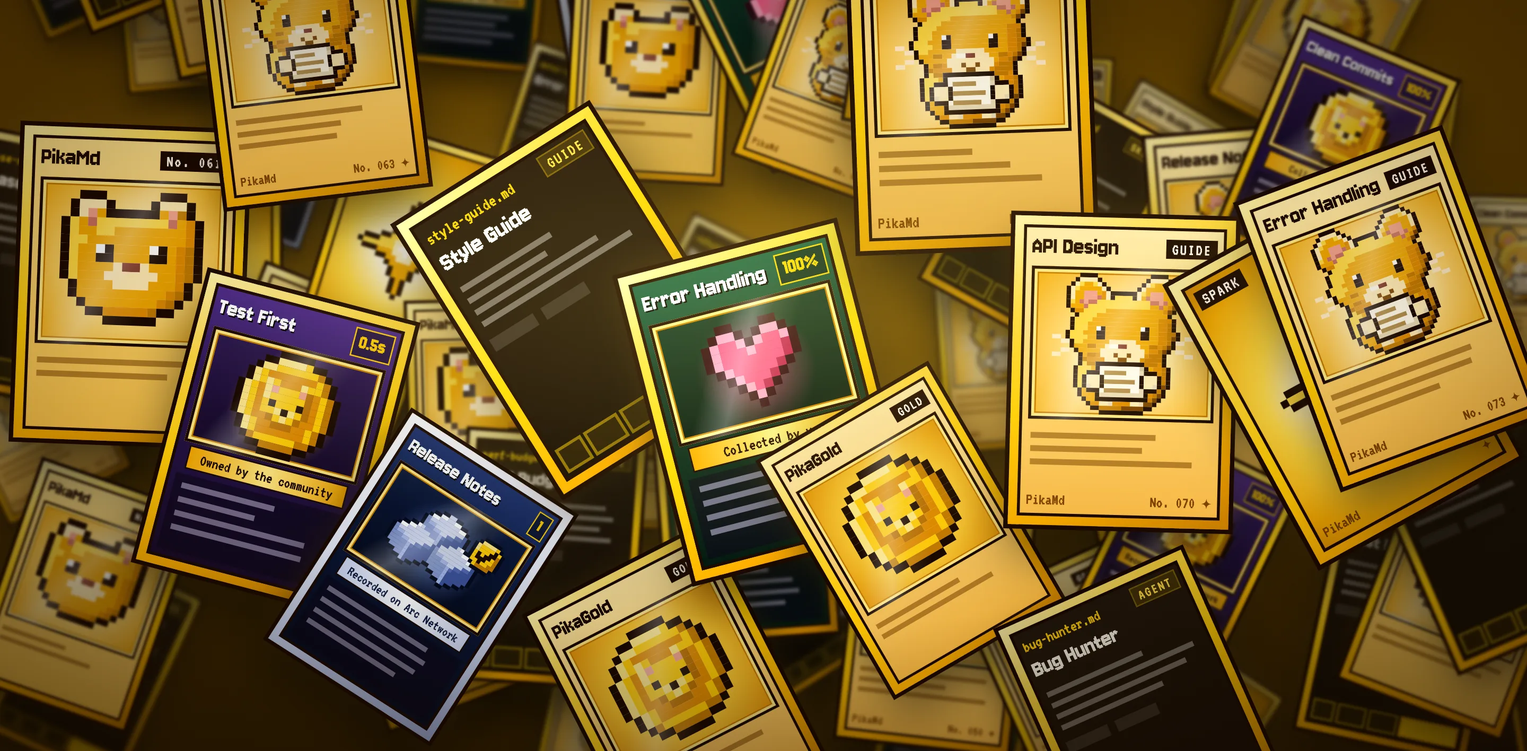
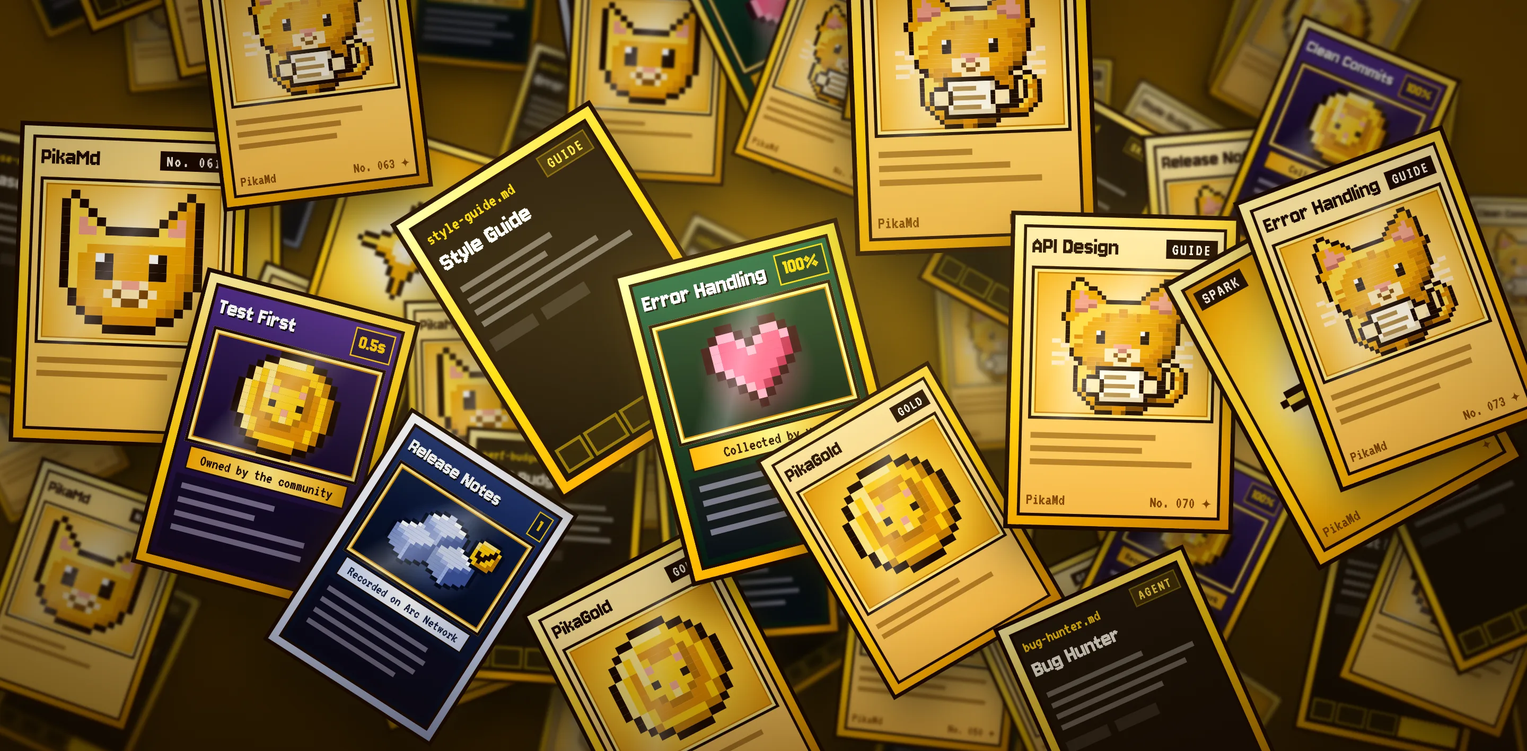
Swap the mascot to a cat and label reviewed guidelines Verified
The pika read as a mouse, so the mascot is now an original tabby cat with
the same palette, size and pose: navbar sprite, favicons, the PikaGold coin
face and the background cards (rebuilt from the same seed, same layout).
The favicon head is drawn plainer so its face reads in a browser tab.

The reviewed badge now says VERIFIED, and its note is our own pixel bubble
that opens after 0.25 s instead of the browser's title tooltip.

diff --git a/web/components/brand/pika-art.ts b/web/components/brand/pika-art.ts
@@ -1,9 +1,10 @@
-// PikaMd mascot: a pika (Ochotona), the small mountain mammal that gathers and stores hay for
-// the winter: a collector, like a guideline collection. Original pixel art drawn for PikaMd
-// (2026-10-15; how it was made: design/brand/mascot.mjs). Round, pale-rimmed ears, long whiskers,
-// no tail, holding a .md page. One letter per pixel, "." is transparent; colors in PIKA_PALETTE.
-// Used by components/brand/PikaSprite.tsx (navbar) and design/brand/build-icons.mjs (favicons,
-// social images), so every picture of the mascot comes from these maps.
+// PikaMd mascot: a tabby cat holding a .md page, the collector of the guideline library. Original
+// pixel art drawn for PikaMd (2026-10-25, replacing the pika; how it was made:
+// design/brand/mascot.mjs). Pointed ears with pink insides, tabby stripes, pink nose, long
+// whiskers, a striped tail curled up its right side. One letter per pixel, "." is transparent;
+// colors in PIKA_PALETTE. Used by components/brand/PikaSprite.tsx (navbar) and
+// design/brand/build-icons.mjs (favicons, social images), so every picture of the mascot comes
+// from these maps.
 
 export const PIKA_PALETTE: Record<string, string> = {
   O: "#1A0800", // outline (--ink)
@@ -11,14 +12,12 @@ export const PIKA_PALETTE: Record<string, string> = {
   E: "#FFFFFF", // eye shine
   D: "#7A4200", // deepest fur shade (--g4), mouth
   S: "#C47A00", // fur shade (--g3)
-  M: "#E08A00", // fur mid (--g2)
+  M: "#E08A00", // fur mid (--g2), tabby stripes
   B: "#F0A500", // fur (--g1)
   L: "#FFD740", // fur light (--y2)
-  C: "#FFE8B0", // cream: ear rims, muzzle, paws, feet
-  W: "#FFF8E7", // muzzle shine (--t0)
-  P: "#F2A08A", // inner ear
-  p: "#C9705E", // inner ear shade
-  N: "#7A2E22", // nose
+  C: "#FFE8B0", // cream: muzzle, paws
+  P: "#F2A08A", // inner ear, nose
+  p: "#C9705E", // inner ear and nose shade
   w: "#FFE9C2", // whiskers (light, so they read on dark backgrounds)
   X: "#FFF8E7", // page
   x: "#E9D9B4", // page shade
@@ -28,72 +27,72 @@ export const PIKA_PALETTE: Record<string, string> = {
 
 /** 32×32, the full mascot holding a page. */
 export const PIKA: readonly string[] = [
-  "......OOOO............OOOO......",
-  ".....OCCCCO..........OCCCCO.....",
-  "....OCLBBLCO........OCLBBLCO....",
-  "...OCLBBBBBCO......OCBBBBBBCO...",
-  "...OCBBPPPBMCOOOOOOCLBPPPBBCO...",
-  "...OCBBPPPpMCOLLLLOCBpPPPBBCO...",
-  "...OLBpPppLLLLLLLLLLLLppPpBMO...",
-  "...OBBBpLLLLLLLLLLLLLLBBpBMDO...",
-  "....OMMLLLLLBBBBBBBBBBBBBMDO....",
-  ".....OLLLLBBBBBBBBBBBBBBBBO.....",
-  "....OLLLLBBBBBBBBBBBBBBBMMMO....",
-  "....OLLLBBBBBBBBBBBBBBBBMMSO....",
-  "....OLLLBBEKBBBBBBBBEKBBMMSO....",
-  "...OLLLBBBKKBBBBBBBBKKBBMMSSO...",
-  "ww.OLLLLBBKKBBBBBBBBKKBBMMSDO.ww",
-  "..wwOLLBBBBBBCCCCCCBBBBBMMSOww..",
-  "....OBBBSSBBCWWNNCCCBBSSMSDO....",
-  "..ww.OBBBBBCCCCCCCCCCBMMSDO.ww..",
-  "ww....OBSSMCCCDCCDCCCMSSSO....ww",
-  "......OSMMMMCCCDDCCCMSSSSO......",
-  "......OLSSOOOOOOOOOOOSSSMO......",
-  ".....OLLLBOXXXXXXXXXfOBMMSO.....",
-  ".....OLLOOOXlllllXXXxOOOMSO.....",
-  ".....OLOCCCOXXXXXXXXOCCCOSO.....",
-  ".....OLOCCCOlllllllXOCCCOSO.....",
-  ".....OLOxCCOXXXXXXXXOCCxODO.....",
-  "......OBOOOXllllllXXxOOOSO......",
-  "......OBBBOxxxxxxxxxxOMSDO......",
-  ".......OBBOOOOOOOOOOOOSDO.......",
-  "........OMMCCxMMMMCCxDDO........",
-  ".........OOSSSSSDDDDDOO.........",
-  "...........OOOOOOOOOO...........",
+  "................................",
+  ".....OO..................OO.....",
+  "....OLLO................OBBO....",
+  "....OLLLOO............OOBBBO....",
+  "...OBBPBBBO..........OMMMPMMO...",
+  "...OBBPPBBBO........OMMMPPMMO...",
+  "...OBPPPPPBBOOOOOOOOMMPPPPPMO...",
+  "...OBPPPppLLLLLLLLLLLLppPPPMO...",
+  "...OBpppLLLLLLLMMLLLLLBBpppMO...",
+  "..OBBBLLLLLBMBBMMBBMBBBBBBMMMO..",
+  "..OBBLLLLBBBMBBBBBBMBBBBBBBMDO..",
+  "...OLLLLBBBBBBBBBBBBBBBBMMMMO...",
+  "...OLLLBBBBBBBBBBBBBBBBBMMSSO...",
+  "...OLLLBBBEKBBBBBBBBEKBBBMMSO...",
+  "...OLMMBBBKKBBBBBBBBKKBBBSSSO...",
+  "ww.OLLLBBBKKBBBBBBBBKKBBBMMSO.ww",
+  "..wwLMMBBBBBBBPPPPBBBBBBMSSDww..",
+  "....OBBBBBBBCCCppCCCBBBMMSSO....",
+  "wwwwOBBBBBBBCCDCCDCCBBMMMDDOwwww",
+  "...w.OOBMMMMCCCDDCCCMMMSDOO.w...",
+  "www...OSMMSMMMCCCCMMMSSSO..OOwww",
+  ".....OLLSSOOOOOOOOOOOSSSMOOLLO..",
+  ".....OLLLBOXXXXXXXXXfOMMSO.OLSO.",
+  ".....OLLOOOXlllllXXXxOOOSO.OMMO.",
+  ".....OLOCCCOXXXXXXXXOCCCOO.OLSO.",
+  ".....OLOCCCOlllllllXOCCCOO.OLSO.",
+  ".....OBOxCCOXXXXXXXXOCCxOOOLMMO.",
+  "......OBOOOXllllllXXxOOOOOLBSO..",
+  ".......OBBOxxxxxxxxxxODDSSSSO...",
+  "........OMOOOOOOOOOOOOOOOOOO....",
+  ".........OSSSSMMMDDDDO..........",
+  "..........OOOOSSDOOOO...........",
 ];
 
 /** Closed eyes: drawn over PIKA for a blink (fur over the eye, a line on its bottom row). */
 export const PIKA_LIDS: readonly { x: number; y: number; c: string }[] = [
-  { x: 10, y: 12, c: "B" },
-  { x: 11, y: 12, c: "B" },
   { x: 10, y: 13, c: "B" },
   { x: 11, y: 13, c: "B" },
-  { x: 10, y: 14, c: "K" },
-  { x: 11, y: 14, c: "K" },
-  { x: 20, y: 12, c: "B" },
-  { x: 21, y: 12, c: "B" },
+  { x: 10, y: 14, c: "B" },
+  { x: 11, y: 14, c: "B" },
+  { x: 10, y: 15, c: "K" },
+  { x: 11, y: 15, c: "K" },
   { x: 20, y: 13, c: "B" },
   { x: 21, y: 13, c: "B" },
-  { x: 20, y: 14, c: "K" },
-  { x: 21, y: 14, c: "K" },
+  { x: 20, y: 14, c: "B" },
+  { x: 21, y: 14, c: "B" },
+  { x: 20, y: 15, c: "K" },
+  { x: 21, y: 15, c: "K" },
 ];
 
-/** 16×16 head, for favicons (the full mascot doesn't read at 16 px). */
+/** 16×16 head for favicons: plain fur and big eyes, so it reads in a browser tab. */
 export const PIKA_HEAD: readonly string[] = [
-  "..OOO......OOO..",
-  ".OCCCO....OCCCO.",
-  ".OCPBOOOOOOBPSO.",
-  "OLBpLLLLLLLLpBMO",
-  "OLBBLLBBBBBBBBMO",
+  ".O............O.",
+  "OLO..........OBO",
+  "OLLO........OBMO",
+  "OLPLO......OBPMO",
+  "OLPPLOOOOOOLPPMO",
+  "OLLLLLLLLLLLLLMO",
   "OLLBBBBBBBBBBBMO",
-  "OLBBEKBBBBEKBMSO",
+  "OLBBEKBBBBEKBBMO",
+  "OLBBKKBBBBKKBBMO",
   "OLBBKKBBBBKKBMSO",
-  "OLBBBBCNNCBBBMSO",
-  "OLBBBCCCCCCBBMSO",
-  ".OBBBBCCCCBBBMO.",
-  ".OBBBBBBBBBBMSO.",
-  "..OBBBBBBBBMSO..",
-  "...OOMMMMMSOO...",
+  "OLBBBBCPPCBBBMSO",
+  ".OBBBCDCCDCBBMO.",
+  ".OMBBBCDDCBBMSO.",
+  "..OMMBBBBBBMSO..",
+  "...OOMMMMMMOO...",
   ".....OOOOOO.....",
-  "................",
 ];

diff --git a/web/components/ReviewedMark.tsx b/web/components/ReviewedMark.tsx
@@ -1,17 +1,20 @@
-// The "Reviewed" badge (ARCHITECTURE §9.5): a PikaMd moderator read this exact version of the file
-// and approved it on Arc. Honest about what that means: a review lowers the risk, it isn't a
-// guarantee. Shown under the type badge on cards and previews, and in a guideline's header.
+// The "Verified" badge (ARCHITECTURE §9.5; labelled "Reviewed" until 2026-10-25): a PikaMd
+// moderator read this exact version of the file and approved it on Arc. Honest about what that
+// means: a review lowers the risk, it isn't a guarantee. Shown under the type badge on cards and
+// previews, and in a guideline's header. The note is our own hover bubble, not a `title`: the
+// browser's tooltip waits about a second and that delay can't be changed (globals.css → .md-reviewed-tip).
 export const REVIEWED_NOTE =
-  "Reviewed: a PikaMd moderator read this exact version and approved it on Arc. A review lowers the risk; it isn't a guarantee";
+  "Verified: a PikaMd moderator read this exact version and approved it on Arc. A review lowers the risk; it isn't a guarantee";
 
 export default function ReviewedMark({ size = "card" }: { size?: "card" | "page" }) {
   return (
-    <span className={`md-reviewed is-${size}`} title={REVIEWED_NOTE} aria-label={REVIEWED_NOTE} role="img">
+    <span className={`md-reviewed is-${size}`} aria-label={REVIEWED_NOTE} role="img">
       {/* 8×7 pixel check at a whole-number scale (2× on cards, 3× on the page), so its edges stay sharp */}
       <svg width={size === "page" ? 24 : 16} height={size === "page" ? 21 : 14} viewBox="0 0 8 7" fill="currentColor" shapeRendering="crispEdges" aria-hidden="true">
         <path d="M7 0h1v2H7zM6 2h1v1H6zM5 3h1v1H5zM0 3h1v1H0zM1 4h1v1H1zM4 4h1v1H4zM2 5h2v1H2z" />
       </svg>
-      <span aria-hidden="true">REVIEWED</span>
+      <span aria-hidden="true">VERIFIED</span>
+      <span className="md-reviewed-tip" aria-hidden="true">{REVIEWED_NOTE}</span>
     </span>
   );
 }

diff --git a/web/app/globals.css b/web/app/globals.css
@@ -264,7 +264,7 @@ body {
 }
 
 /* Logo */
-/* The PikaMd pika (components/brand/PikaSprite.tsx): 32×32 at 1:1, exactly 2× on retina */
+/* The PikaMd cat (components/brand/PikaSprite.tsx): 32×32 at 1:1, exactly 2× on retina */
 .logo-sprite {
   width: 32px;
   height: 32px;
@@ -1284,7 +1284,7 @@ body {
   color: var(--t2);
 }
 
-/* "Reviewed" (ARCHITECTURE §9.5): a moderator approved this exact file on Arc. Solid green so it
+/* "Verified" (ARCHITECTURE §9.5): a moderator approved this exact file on Arc. Solid green so it
    reads at a glance next to the quiet type badge; same pixel frame (four box-shadows, open
    corners), its own green. Sits under the type badge, at the right end of the title row. */
 .md-title-row {
@@ -1318,11 +1318,48 @@ body {
     inset 0 2px 0 0 rgba(255, 255, 255, 0.35),
     0 0 10px rgba(123, 216, 143, 0.35);
   cursor: help;
+  position: relative;
 }
 .md-reviewed.is-page {
   gap: 7px;
   padding: 3px 9px 3px 7px;
   font-size: 19px;
+}
+/* Hover note: opens after 0.25 s (the browser's own title tooltip takes about a second), closes at once */
+.md-reviewed-tip {
+  position: absolute;
+  top: calc(100% + 10px);
+  right: -2px;
+  z-index: 30;
+  width: 250px;
+  padding: 8px 10px;
+  font-size: 16px;
+  line-height: 1.2;
+  letter-spacing: 0;
+  text-align: left;
+  white-space: normal;
+  color: var(--t0);
+  background: #0D1409;
+  box-shadow:
+    0 -2px 0 0 #2F7D44,
+    0 2px 0 0 #2F7D44,
+    -2px 0 0 0 #2F7D44,
+    2px 0 0 0 #2F7D44,
+    0 10px 24px rgba(0, 0, 0, 0.6);
+  pointer-events: none;
+  visibility: hidden;
+  opacity: 0;
+}
+.md-reviewed:hover .md-reviewed-tip {
+  visibility: visible;
+  opacity: 1;
+  transition: visibility 0s 0.25s, opacity 0s 0.25s;
+}
+.md-reviewed.is-page .md-reviewed-tip {
+  left: -2px;
+  right: auto;
+  width: 320px;
+  font-size: 18px;
 }
 
 .md-title {

diff --git a/web/components/PikaGoldCoin.tsx b/web/components/PikaGoldCoin.tsx
@@ -1,18 +1,18 @@
-// 15×15 PikaGold coin: the PikaMd pika's head (components/brand/pika-art.ts) embossed on a gold
-// coin, in the logo's palette (ink outline, gold rim, recessed face, raised head lit from the top
-// left with a drop shadow, peach inner ears). Drawn from an ASCII map at an integer scale so every
-// pixel stays crisp. Animations live in globals.css (.pg-*): a light stripe sweeps across in
-// 2-pixel steps, then a pixel sparkle blinks on the rim.
+// 15×15 PikaGold coin: the PikaMd cat's head (components/brand/pika-art.ts) embossed on a gold
+// coin, in the logo's palette (ink outline, gold rim, recessed face, raised head with pointed ears
+// lit from the top left with a drop shadow, peach inner ears and nose). Drawn from an ASCII map at
+// an integer scale so every pixel stays crisp. Animations live in globals.css (.pg-*): a light
+// stripe sweeps across in 2-pixel steps, then a pixel sparkle blinks on the rim.
 const MAP = [
   ".....OOOOO.....",
   "...OOLLLLROO...",
   "..OLLRRRRRRSO..",
-  ".OLRFFFFFFFRSO.",
-  ".OLRhyFFFhyRSO.",
+  ".OLRhFFFFFyRSO.",
+  ".OLRhyFFFygRSO.",
   "OLRFhpyyypgFRSO",
   "OLRFhyyyyygFRSO",
   "OLRFykyyykgFRSO",
-  "OLRFyyhkhygFRSO",
+  "OLRFyyypyygFRSO",
   "OLRFFgyhygFFRSO",
   ".OLRFFgggFFRSO.",
   ".OLRFFFFFFFRSO.",
@@ -30,8 +30,8 @@ const COLORS: Record<string, string> = {
   y: "#FFCB05", // raised head
   h: "#FFE680", // head light (top left)
   g: "#B86E00", // head shade and drop shadow
-  k: "#1A0800", // eyes, nose
-  p: "#F2A08A", // inner ears (same peach as the mascot)
+  k: "#1A0800", // eyes
+  p: "#F2A08A", // inner ears and nose (same peach as the mascot)
 };
 
 const N = MAP.length;

diff --git a/web/components/Navbar.tsx b/web/components/Navbar.tsx
@@ -100,7 +100,7 @@ export default function Navbar() {
 
       <div className="nav-inner">
         <PageLink href="/" className="nav-left" aria-label="PikaMd home">
-          {/* The PikaMd pika, 32×32 pixels at 1:1 (2× on retina): inline SVG, sharp at every density */}
+          {/* The PikaMd cat, 32×32 pixels at 1:1 (2× on retina): inline SVG, sharp at every density */}
           <PikaSprite className="logo-sprite" blink />
           <span className="logo-text">
             Pika<span>Md</span>

diff --git a/web/components/brand/PikaSprite.tsx b/web/components/brand/PikaSprite.tsx
@@ -1,6 +1,6 @@
 import { PIKA, PIKA_LIDS, PIKA_PALETTE } from "@/components/brand/pika-art";
 
-// The PikaMd pika (components/brand/pika-art.ts) as crisp SVG: one rect per horizontal run of
+// The PikaMd cat (components/brand/pika-art.ts) as crisp SVG: one rect per horizontal run of
 // the same color, at an integer scale so every pixel stays sharp. `blink`: the eyes close for a
 // moment every few seconds (globals.css → .pika-lids; off with prefers-reduced-motion).
 

diff --git a/DESIGN.md b/DESIGN.md
@@ -1,6 +1,6 @@
 # PikaMd — Tasarım Sistemi ve Güncel Durum
 
-> Son güncelleme: 2026-10-24 (kartlarda ve yönerge sayfasında yeşil REVIEWED rozeti; moderasyon masasında Waiting for review; sayfalar beklemeden dolu açılır). Önceki: 2026-10-19 (yönlü kayan sayfa geçişleri + navbar'da kayan altın çerçeve; cüzdan seçicisinde WalletConnect). Site canlı: https://pikamd.vercel.app Arayüz geliştirmesi sürüyor (yol haritası: ARCHITECTURE.md §15).
+> Son güncelleme: 2026-10-25 (maskot pikadan tekir kediye döndü: navbar, favicon'lar, PikaGold sikkesi, arka plan kartları; aynı palet, ölçü ve duruş). Önceki: 2026-10-24 (kartlarda ve yönerge sayfasında yeşil REVIEWED rozeti; moderasyon masasında Waiting for review; sayfalar beklemeden dolu açılır). Önceki: 2026-10-19 (yönlü kayan sayfa geçişleri + navbar'da kayan altın çerçeve; cüzdan seçicisinde WalletConnect). Site canlı: https://pikamd.vercel.app Arayüz geliştirmesi sürüyor (yol haritası: ARCHITECTURE.md §15).
 > Bu dosya **piksel tasarım dilinin kurallarını** ve **sitenin şu anki halini** tutar.
 > Yeni bir UI işi yaparken önce burayı oku; buradaki kararlar kullanıcıyla tek tek onaylandı.
 
@@ -9,7 +9,7 @@
 ## 1. Tasarım dili: oyunlaştırılmış, okunaklı piksel sanatı
 
 - **Tarz:** 8-bit / retro oyun estetiği, premium ve okunaklı. Kullanıcı "piksel tarzı ama okunabilir" istedi.
-- **Zemin (2026-10-15, telif temizliği):** PikaMd'nin kendi koleksiyon kartlarından oluşan sıcak altın bir yığın (`web/public/bg/pikamd-cards.webp`, 2880×1416, 424 KB; eski Pokémon kartlı `background1.png` kaldırıldı). Kartlarda maskot, PikaGold sikkesi, dört köşeli parıltı, yönerge dosyaları ve mor/lacivert/yeşil özellik kartları; başlıklar genel adlar (üçüncü taraf ürün adı yok). `design/brand/background.mjs` ile üretilir (sitenin piksel haritalarını bileşenlerden okur, sabit tohumlu → aynı görsel; HTML sahnesi headless Chrome'da 2× çekilir). Efektler PikaStake'tekiyle aynı: `blur(2px)` + `scale(1.01)`, üstünde `rgba(4,2,0,0.35)` koyu katman, en üstte 40px silik sarı ızgara. Görsel yüklenene kadar `placeholder="blur"` (webp statik içe aktarmada Next otomatik üretir) + amber yedek zemin (asla siyah ekran olmasın).
+- **Zemin (2026-10-15, telif temizliği):** PikaMd'nin kendi koleksiyon kartlarından oluşan sıcak altın bir yığın (`web/public/bg/pikamd-cards.webp`, 2880×1416, 424 KB; eski Pokémon kartlı `background1.png` kaldırıldı). Kartlarda maskot (2026-10-25'ten beri kedi; arka plan aynı tohumla yeniden üretildi, kartların yeri ve sırası birebir aynı), PikaGold sikkesi, dört köşeli parıltı, yönerge dosyaları ve mor/lacivert/yeşil özellik kartları; başlıklar genel adlar (üçüncü taraf ürün adı yok). `design/brand/background.mjs` ile üretilir (sitenin piksel haritalarını bileşenlerden okur, sabit tohumlu → aynı görsel; HTML sahnesi headless Chrome'da 2× çekilir). Efektler PikaStake'tekiyle aynı: `blur(2px)` + `scale(1.01)`, üstünde `rgba(4,2,0,0.35)` koyu katman, en üstte 40px silik sarı ızgara. Görsel yüklenene kadar `placeholder="blur"` (webp statik içe aktarmada Next otomatik üretir) + amber yedek zemin (asla siyah ekran olmasın).
 - **Dil:** Sitedeki her metin İngilizce (ARCHITECTURE K18).
 
 ### 1.1 Renkler (`web/app/globals.css` → `:root`)
@@ -65,10 +65,10 @@
 | `search/ExploreSearch.tsx` (+ `search/Marked.tsx`) | Explore arama çubuğu (ARCHITECTURE §11.1): şeritlerin üstünde, `min(800px, 100% - 40px)`, 54px (kısa ekranda ve mobilde 48px) piksel kutu: altın büyüteç 27px (9 piksellik harita × 3, keskin), VT323 25px (kısa ekran 23, mobil 20), sağda `/` tuşu ipucu veya ✕ temizle (kullanıcı isteğiyle büyütüldü, 2026-10-12); odakta altın çerçeve + ışıma. Açılır panel kutunun 15px altında (çerçeveler değmez), opak, altın çerçeve, kendi içinde kayar (`min(62svh, 560px)`): Type / Tags düğmeleri (basılıyken altın), sonuçlar (2px çerçeveli satırlar, seçili olan altın çerçeve), dosya satırları koyu şeritte numaralı, vurgular altın zemin + koyu yazı (`.srch-mark`), uyarılar turuncu, altta kesik çizgi + söz dizimi ipucu. Sonuçtan açılan önizlemede eşleşen satır `.mdp-hit` (altın sol şerit + zemin). Mobilde klavye ipuçları gizli, panel ekran içinde. URL'yi okuduğu için `Suspense` içinde; yedeği aynı boyutta `SearchBoxShell` (kayma yok). |
 | `MdLanes.tsx` | Explore'daki sonsuz akan şeritler. **Az kartta raf (2026-10-18):** **18'den az** listelenmiş yönerge varsa (`LANES_FROM`: 9 kart × 294 px > 2560 px, daha azında döngüde boşluk görünür) kartlar akmaz, tam boy kartlarla **ortalanmış sabit raf** (`.md-shelf`, satırda en çok 4, yarım satır ortada, her kart bir kez); 18'den itibaren şeritler kendiliğinden açılır. **Hiç yoksa** (`components/ExploreEmpty.tsx`; canlı site boş başlar): arama kutusu yerine piksel panel: göz kırpan maskot 3× + "The library is waiting for its **first guideline**" + iki satır açıklama + **+ Publish the first guideline** (altın) / **Connect your agent**; arama gizli (bulacak bir şey yok). Ölçüldü: 19 → şerit, 5 → 4+1 raf, 0 → davet; 1440 ve 390 px'te yana taşma yok. **Şeritteki kartlar kompakt** (kullanıcı isteği, 2026-10-12): 272px (mobil 264px), başlık 20px, özet 16px, butonlar 27px, buton arası 15px (iki çerçeve + 9px); sadece tam piksel ölçüler (zoom/scale yok → çerçeveler keskin), diğer sayfalardaki kartlar (Collection, Publish önizlemesi) tam boy kalır. Ölçüldü: 36 kartın hepsi "✓ Added" durumundayken bile dört buton tek satıra sığıyor. Kartlar iki kopya render edilir, `-50%` kaydırılır (kesintisiz döngü). Saf CSS animasyon, hover'da durur. İkinci kopya `aria-hidden` + butonları `tabIndex=-1`. **`inert` kullanma:** fare etkileşimini de kapatır, o kartlarda hover ışığı yanmaz ve butona basılamaz (2026-10-09'da yaşandı). |
 | `AuthorAction.tsx` / `HideButton.tsx` | **Kartın üçüncü butonu tek yerden (2026-10-15, kullanıcı kararı):** bağlı cüzdan yönergenin yazarıysa (ve zincir kimliği ≥1) ★ Tip yerine **Hide** (düz kırmızı `--red`, koyu kırmızı çerçeve + 3D taban, mürekkep yazı) ya da gizliyse **Show** (düz altın); diğer herkese Tip. MdCard ve MdPreview kullanır → Explore, arama önizlemesi, Saved, Shared by me aynı. Çalışırken buton "…" ve balonda aşama (Signing in… → Check your wallet… → Writing to Arc… → Updating PikaMd…); hata kırmızı balonda 6 sn; gönderilmiş ama eşitlenmemiş işlemde "Retry". Hydration bitene kadar Tip (sunucuyla aynı). Publish önizlemesi (id 0) Tip. Ölçüldü: Explore'da dört buton kartın içinde (kompakt şerit dahil). |
-| `ReviewedMark.tsx` + `guideline/ReviewCheck.tsx` | **"Reviewed" rozeti (2026-10-23, K24, ARCHITECTURE §9.5):** moderatörün Arc'ta onayladığı yönergede **dolu yeşil** (`--green`, koyu yazı) piksel rozet: koyu yeşil 4 box-shadow çerçeve (köşeler açık), üstte ince açık çizgi, hafif yeşil ışıma; 8×7 piksel onay işareti tam sayı ölçekte (kart 2×, sayfa 3×) + "REVIEWED" (VT323 14 px, sayfada 19 px). Kartta ve önizlemede başlık satırının sağ ucunda, **RULES etiketinin altında** (`.md-title-row`; başlık gerekirse kısalır, kart yüksekliği değişmez: ölçüldü 192–194 px, rozet RULES'un 9 px altında, sağ kenarı sürüm etiketiyle hizalı); yönerge sayfasında RULES / sürümün yanında. Üzerine gelince: "Reviewed: a PikaMd moderator read this exact version and approved it on Arc. A review lowers the risk; it isn't a guarantee". Yönerge sayfasının On Arc bölümünde "Verified on Arc"ın altında canlı kontrol (yeşil ✓ / soluk / turuncu: başka sürüm). |
+| `ReviewedMark.tsx` + `guideline/ReviewCheck.tsx` | **"Reviewed" rozeti (2026-10-23, K24, ARCHITECTURE §9.5):** moderatörün Arc'ta onayladığı yönergede **dolu yeşil** (`--green`, koyu yazı) piksel rozet: koyu yeşil 4 box-shadow çerçeve (köşeler açık), üstte ince açık çizgi, hafif yeşil ışıma; 8×7 piksel onay işareti tam sayı ölçekte (kart 2×, sayfa 3×) + "VERIFIED" (VT323 14 px, sayfada 19 px; 2026-10-25'e kadar "REVIEWED", kullanıcı kararıyla değişti). Kartta ve önizlemede başlık satırının sağ ucunda, **RULES etiketinin altında** (`.md-title-row`; başlık gerekirse kısalır, kart yüksekliği değişmez: ölçüldü 192–194 px, rozet RULES'un 9 px altında, sağ kenarı sürüm etiketiyle hizalı); yönerge sayfasında RULES / sürümün yanında. Üzerine gelince (2026-10-25'ten beri tarayıcının `title` balonu değil, kendi piksel balonumuz `.md-reviewed-tip`: tarayıcınınki ≈1 sn bekliyor ve değiştirilemiyor; bizimki 0,25 sn'de açılır, fare çekilince hemen kapanır; koyu zemin, yeşil piksel çerçeve, kartta rozetin altında sağa, sayfada sola hizalı): "Verified: a PikaMd moderator read this exact version and approved it on Arc. A review lowers the risk; it isn't a guarantee". Yönerge sayfasının On Arc bölümünde "Verified on Arc"ın altında canlı kontrol (yeşil ✓ / soluk / turuncu: başka sürüm). |
 | `LikeButton.tsx` / `TipButton.tsx` | ♥ beğeni (K22, **gerçek**: sunucu + cüzdan oturumu) ve ★ Tip (**gerçek**, K21, 2026-10-18: bağış penceresini açar, aşağıda `tips/TipDialog.tsx`; Publish önizlemesi (id 0) ve kontratı olmayan ağ balonda nedenini söyler). Kalp: bağlı değilken cüzdan seçicisini açar, bağlanınca beğeni kendiliğinden devam eder; ilk beğenide tek ücretsiz imza; beğenilince altın; **tekrar basınca beğeni tek tıkla geri alınır** (2026-10-15, kullanıcı kararı; imza gerekmez) ve balon "Like removed. The author keeps the PikaGold"; geri alınmış beğeniyi tekrar verince "Liked again. PikaGold was already given" (balonlar `md-note-start`: kalp kartın solunda olduğu için balon sağa açılır, panelin içinde kalır). `title`: "You liked this. Press again to take it back". Sayı önce ekranda artar/azalır, sonra sunucunun sayısını alır. Hata/iptal mesajları aynı balonda. |
 | `wallet/WalletButton.tsx` | Navbar'daki cüzdan: bağlı değilken "Connect Wallet" (ghost buton), bağlıyken **sadece kısa adres** (`0x3C44…93BC`; PikaGold 2026-10-13'te yanındaki ayrı kutuya taşındı). Basınca opak panel: "Connected wallet", adres + Copy address, **N PikaGold** (PikaGold sikkesi + Jersey, altın) + "You earn 1 PikaGold for every like on guidelines you share", Disconnect. Esc / dışarı tıklama kapatır. Mobil menüde panel akış içinde açılır. Hidrasyondan önce hep "Connect Wallet" (sunucu cüzdanı göremez). **Altında (2026-10-18, K21):** kesik çizgi + altın piksel yıldız + "0.10 USDC in tips" (Jersey, PikaGold satırıyla aynı) ve "From 1 tip, sent straight to this wallet" (hiç yoksa "Tips for your guidelines go straight to this wallet, in USDC"); tutar profil API'sinden tam (`tipsReceived`, USDC birimi). |
-| `wallet/PikaGoldBox.tsx` + `PikaGoldCoin.tsx` | **PikaGold kutusu (2026-10-13, kullanıcı isteği):** navbar'da cüzdan butonunun **sağında**, ghost buton iskeleti (34px, aynı çerçeve + 3D taban, arası 18px). İçinde **PikaGold sikkesi** + sayı (Jersey 24px, altın, `--g4` gölge). Sikke 15×15 ASCII harita, **2× (30px)**; logoyla uyumlu ama aynısı değil: mürekkep dış hat, altın kenar (sol-üst açık / sağ-alt koyu kabartma), içi çökük koyu amber (`--g2`), ortada kabartma **pika maskotunun yüzü** (2026-10-15'te Pikachu yüzünün yerine: şeftali iç kulaklı iki yuvarlak kulak, mürekkep gözler + burun, sol üstten ışık, sağ altta gölge kenarı ve düşen gölge; kırmızı yanak yok). Animasyon (hepsi `steps`): her 4,8 sn'de açık renkli çapraz şerit sikkenin üzerinden **2 piksellik sıçramalarla** geçer (hover'da hemen bir kez), ardından kenarda piksel ışıltı (nokta → artı → nokta); PikaGold artınca sikke 2px adımlarla **zıplar**, kutunun üstünde **"+N"** belirip yükselerek söner (sikkenin üstünde sarı üstüne sarı kalıp okunmuyordu). Bağlı değilken `–`, tıklayınca cüzdan seçicisi; bağlıyken tıklayınca altta balon "You earn 1 PikaGold for every like on guidelines you share" (2,6 sn). Profil alınamazsa (production'da backend yokken 503) sonsuz `…` yerine `–` ve balon "PikaGold opens with wallet sign-in. Coming soon"; cüzdan menüsü "PikaGold isn't available right now". ≥10.000 kısaltılır (12.3K), tam sayı `aria-label`'da. **Mobilde de görünür** (☰'nin solunda). `prefers-reduced-motion`'da animasyon yok. Ölçüldü (CDP): 1440'ta yükseklik 34, aralık 18; 390'da taşma yok; gerçek beğeniyle 96 → 97 ve "+1" görüldü. |
+| `wallet/PikaGoldBox.tsx` + `PikaGoldCoin.tsx` | **PikaGold kutusu (2026-10-13, kullanıcı isteği):** navbar'da cüzdan butonunun **sağında**, ghost buton iskeleti (34px, aynı çerçeve + 3D taban, arası 18px). İçinde **PikaGold sikkesi** + sayı (Jersey 24px, altın, `--g4` gölge). Sikke 15×15 ASCII harita, **2× (30px)**; logoyla uyumlu ama aynısı değil: mürekkep dış hat, altın kenar (sol-üst açık / sağ-alt koyu kabartma), içi çökük koyu amber (`--g2`), ortada kabartma **kedi maskotunun yüzü** (2026-10-25: şeftali iç kulaklı iki sivri kulak, mürekkep gözler, şeftali burun, sol üstten ışık, sağ altta gölge kenarı ve düşen gölge; önceden pika, ondan önce Pikachu). Animasyon (hepsi `steps`): her 4,8 sn'de açık renkli çapraz şerit sikkenin üzerinden **2 piksellik sıçramalarla** geçer (hover'da hemen bir kez), ardından kenarda piksel ışıltı (nokta → artı → nokta); PikaGold artınca sikke 2px adımlarla **zıplar**, kutunun üstünde **"+N"** belirip yükselerek söner (sikkenin üstünde sarı üstüne sarı kalıp okunmuyordu). Bağlı değilken `–`, tıklayınca cüzdan seçicisi; bağlıyken tıklayınca altta balon "You earn 1 PikaGold for every like on guidelines you share" (2,6 sn). Profil alınamazsa (production'da backend yokken 503) sonsuz `…` yerine `–` ve balon "PikaGold opens with wallet sign-in. Coming soon"; cüzdan menüsü "PikaGold isn't available right now". ≥10.000 kısaltılır (12.3K), tam sayı `aria-label`'da. **Mobilde de görünür** (☰'nin solunda). `prefers-reduced-motion`'da animasyon yok. Ölçüldü (CDP): 1440'ta yükseklik 34, aralık 18; 390'da taşma yok; gerçek beğeniyle 96 → 97 ve "+1" görüldü. |
 | `wallet/WalletModal.tsx` | Cüzdan seçici: native `<dialog>` (odak içeride, Esc kapatır), karartılmış zemine tıklama kapatır. Önizlemeyle aynı opak panel + altın çerçeve, başlık "Connect a wallet", EIP-6963 cüzdanları ikon + adla; beklerken "Check your wallet…", 30 sn sonra "Your wallet didn't answer…". **Listenin sonunda her zaman WalletConnect satırı (2026-10-19):** özgün piksel telefon + QR simgesi (altın; WalletConnect logosu kullanılmıyor, K23) + "WalletConnect" ve ikinci satırda soluk "Phone wallets, by QR code or link"; beklerken "Waiting…". Seçilince WalletConnect'in kendi penceresi (AppKit) açılır: koyu tema, PikaMd sarısı vurgu, köşeler 0; masaüstünde QR + Copy link + cüzdan arama, telefonda alttan cüzdan listesi (doğrudan uygulamaya geçiş). O açıkken bizim pencerelerimiz kenara çekilir, sonra geri gelir (ARCHITECTURE §9.3). Tarayıcı cüzdanı yoksa WalletConnect satırının altında "No browser wallet found" + "On a phone, use WalletConnect above or open this page in your wallet app's browser. On a computer, install one like MetaMask or Rabby, then reload this page". Altta dürüstlük notu: bağlanmak ücretsiz ve sadece adresi paylaşır, ilk beğeni tek ücretsiz imza ister. |
 | `wallet/WalletProvider.tsx` | wagmi + TanStack Query sağlayıcısı (layout'ta), tek cüzdan seçici, **tek bağış penceresi** ve oturum senkronu (bağlantı kesilince / hesap değişince oturumu kapatır). |
 | `tips/TipDialog.tsx` | **Bağış penceresi (K21, 2026-10-18; mimari ARCHITECTURE §7.5).** Her ★ Tip'ten açılır (`lib/tips/dialog.ts`), cüzdan seçicisiyle aynı native `<dialog>` + opak altın çerçeveli panel (440px). Başlık: altın piksel yıldız + "Tip the author" + ✕; yönerge adı (Jersey, altın) + "by 0xd76B…7cDe"; "AMOUNT IN USDC" altında **1 / 3 / 5 / Other** piksel karoları (gerçek radio düğmeleri, ok tuşlarıyla gezilir; seçili olan altın dolgu), Other seçilince "0.10 USDC" kutusu (2 ondalık, 0,01–1.000); koyu bilgi kutusu: To (yazarın kısa adresi, "the author as recorded on Arc"), PikaMd fee 0%, Network fee under a cent, Your balance (cent'e aşağı yuvarlı); bakiye yetmezse turuncu uyarı + faucet linki ve Send kapalı; tam genişlik altın **Send 0.10 USDC** + ipucu "Your wallet asks twice: allow 0.10 USDC, then send" (izin yeterliyse "asks once"). Çalışırken adımlar (Allow · Send the tip, "confirm in your wallet" / "writing to Arc…"), hata kırmızı şeritte. Bitince yeşil **Sent** + "0.10 USDC went straight to the author's wallet…" + View on Arc ↗ / Done. Odak açılışta ✕'te (Enter yanlışlıkla para göndermesin); Esc altta açık önizlemeyi kapatmaz. Ölçüldü: 1440 ve 390 px'te taşma yok. |
@@ -78,7 +78,7 @@
 | `HeroPlaque.tsx` | **Ana sayfa başlık plaketi (2026-10-15, kullanıcı isteği: kıvrımlı, premium, siteyle en uyumlu renk):** başlık + alt yazının arkasında koyu **espresso cam** (sıcak kahve-siyah degrade, üstten altın parıltı, silik tarama çizgileri, arkadaki kart yığını `backdrop-filter: blur(6px)`) ve **çift altın çerçeve** (mürekkep dış hat → altın kenar degradesi → koyu boşluk → ince altın kakma). Silüet piksel **kartuş**: üstte ortada yükselen taç, altta sarkıt, iki yanda içe oyulmuş girintiler, basamaklı yuvarlak köşeler; her eğri 3px basamak (`clip-path: polygon()`, `calc()` ile her boyuta uyar; katman başına geniş ve dar ekran çokgeni `--hp-*` / `--hp-*-sm`). Süslemeler (3px piksel, 3× / telefonda 2×): taçta yuvaya oturmuş krem-beyaz yontulmuş **mücevher**, yanında ucu kıvrılan altın **filigran kanatlar** (telefonda yok), girintilerde altın **boncuklar**, sarkıtta **parıltı**. Dekoratif (`aria-hidden`), metnin kutusunun dışına çizilir: metnin yerleşimi değişmez. Haritalar: `design/brand/plaque-ornaments.mjs`. |
 | `PixelGlyph.tsx` | ASCII haritadan küçük piksel ikonlar (`file`, `collect`, `plug`, `shield`); `#` yüz, `-` iç detay (ink). Renkler CSS'ten: `--glyph-face/-light/-shade/-ink`. |
 | `PixelCoin.tsx` / `PixelHeart.tsx` / `PixelBlocks.tsx` | ASCII haritadan çizilen piksel görseller; ortak dil: açık sol-üst kenar, koyu sağ-alt kenar, 1px dış hat. `PixelBlocks` (2026-10-15): üç izometrik blok + altın "kesinleşti" onay rozeti (kart 002) ve tek altın blok (`PixelBlock`, footer). Arc logosunun yerine özgün çizim (Arc kuralları logoyu yeniden çizmeyi yasaklıyor, §7). |
-| `brand/PikaSprite.tsx` + `brand/pika-art.ts` | **Maskot (2026-10-15):** bir **pika** (Ochotona; kışa ot toplayıp istifleyen dağ hayvanı → koleksiyon fikri, adı "PikaMd"yi açıklar). 32×32 özgün piksel çizim: amber altın kürk, açık kenarlı yuvarlak kulaklar, uzun bıyıklar, kuyruk yok, kırmızı yanak yok, elinde kıvrık köşeli `.md` sayfası. Navbar'da satır içi SVG, 1:1 (retina 2×), birkaç saniyede bir göz kırpar (`.pika-lids`, `steps`; hareket azaltmada kapalı). `pika-art.ts` tek kaynak: 32×32 maskot, göz kapakları, 16×16 kafa (ikonlar). Nasıl çizildiği: `design/brand/mascot.mjs`. |
+| `brand/PikaSprite.tsx` + `brand/pika-art.ts` | **Maskot (2026-10-25, kullanıcı isteği: pika fareye benziyordu):** bir **tekir kedi**. 32×32 özgün piksel çizim, öncekiyle aynı palet, ölçü ve duruş: amber altın kürk, şeftali içli sivri üçgen kulaklar, alında ve yanaklarda tekir çizgileri, şeftali üçgen burun, küçük gülümseme, uçları yumuşak kulaklar (2026-10-25 ikinci tur), iki yanda üçer uzun bıyık, sağ yanda kıvrılan çizgili kuyruk, elinde kıvrık köşeli `.md` sayfası. (2026-10-15–24 arası maskot bir pikaydı.) Dosya ve sınıf adları (`pika-art`, `PikaSprite`, `.pika-lids`) PikaMd'den geldiği için değişmedi. Navbar'da satır içi SVG, 1:1 (retina 2×), birkaç saniyede bir göz kırpar (`.pika-lids`, `steps`; hareket azaltmada kapalı). `pika-art.ts` tek kaynak: 32×32 maskot, göz kapakları, 16×16 kafa (ikonlar). Nasıl çizildiği: `design/brand/mascot.mjs`. |
 
 ### 2.1 Koleksiyon kartı kuralları
 - Boyut **250px** genişlik, oran **63:88** (minimum; içerik büyürse kart uzar, yazı asla kesilmez).
@@ -155,8 +155,8 @@
 ## 5. Marka varlıkları (`design/`, sitede yayınlanmaz)
 | Dosya | Ne |
 |---|---|
-| `web/components/brand/pika-art.ts` | Maskotun tek kaynağı (32×32 maskot, göz kapakları, 16×16 kafa, palet). Navbar, ikonlar, X görselleri ve arka plan buradan çizilir. Eski 25×37 Pikachu sprite'ı (`public/brand/pikamd-logo.png`) kaldırıldı. |
-| `web/app/favicon.ico`, `icon.png`, `apple-icon.png` | **Site ikonları (2026-10-15):** `design/brand/build-icons.mjs` ile haritalardan, tam sayı ölçekle (keskin): favicon 16/32/48 (16×16 kafa 1×/2×/3×, PNG girdili ICO), sekme ikonu 64×64 (kafa 4×, şeffaf), iOS 180×180 (tam maskot 5×, koyu zemin + altın ışıltı). Sayfa başlıkları: "Explore · PikaMd", "My Collection · PikaMd", "Publish · PikaMd", "Connect your agent · PikaMd", "Page not found · PikaMd"; ana sayfa "PikaMd". |
+| `web/components/brand/pika-art.ts` | Maskotun (kedi, 2026-10-25) tek kaynağı (32×32 maskot, göz kapakları, 16×16 kafa, palet). Navbar, ikonlar, X görselleri ve arka plan buradan çizilir. Eski 25×37 Pikachu sprite'ı (`public/brand/pikamd-logo.png`) kaldırıldı. |
+| `web/app/favicon.ico`, `icon.png`, `apple-icon.png` | **Site ikonları (2026-10-15):** `design/brand/build-icons.mjs` ile haritalardan, tam sayı ölçekle (keskin): favicon 16/32/48 (16×16 kafa 1×/2×/3×, PNG girdili ICO; 2026-10-25: sekmede okunsun diye çizgisiz, büyük gözlü, pembe burunlu ve gülümseyen sade kedi kafası), sekme ikonu 64×64 (kafa 4×, şeffaf), iOS 180×180 (tam maskot 5×, koyu zemin + altın ışıltı). Sayfa başlıkları: "Explore · PikaMd", "My Collection · PikaMd", "Publish · PikaMd", "Connect your agent · PikaMd", "Page not found · PikaMd"; ana sayfa "PikaMd". |
 | `design/brand/pikamd-x-profile.png` (repoda yok; `social.mjs` üretir, git dışı; kopyası masaüstünde) | X profil fotoğrafı (1000×1000, daire kırpmasına güvenli): maskot 20×, altın hale. `design/brand/social.mjs` |
 | `design/brand/pikamd-x-header.png` (repoda yok, aynı şekilde) | X kapak (1500×500), ilk kapağın düzeni (2026-10-15, kullanıcı isteği): soldan hayalet izli ve hız çizgili pika zemin çizgisinin üstünde, önünden sağa kaçan dört yönerge türü, altlarında etiket ve sol yanlarında hız çizgileri: **Rules** (krem sayfa, yanında altın "!"), **Skills** (zümrüt dişli), **Prompts** (`>_` yazan mor balon), **Agents** (gök mavisi robot); sağ üstte PikaMd · "Catch the best AI guidelines" · "Markdown guidelines · MCP for any agent"; altta kesik altın zemin, silik altın ızgara. Maskot X'in profil fotoğrafının örttüğü sol alt alanın (≈390px'e kadar) sağından başlar. **Üçüncü taraf logo yok:** eski kapaktaki Claude/ChatGPT/Gemini/Mistral piksel kopyalarının yerine bu özgün simgeler (`design/brand/social-icons.mjs`). `design/brand/social.mjs` |
 | `design/brand/*.mjs` | Üretim betikleri (özgünlüğün kaydı): `mascot.mjs`, `blocks.mjs`, `block-glyph.mjs` (haritaları nasıl ürettik), `build-icons.mjs`, `social.mjs`, `background.mjs`. Çalıştırma: `node --experimental-strip-types design/brand/<betik>.mjs` |

diff --git a/CLAUDE.md b/CLAUDE.md
@@ -39,7 +39,7 @@ Piksel tasarım sistemi, bileşenler, sayfaların güncel hali, geliştirme orta
 ## Nerede kaldık (2026-10-24)
 Yeni oturum buradan devam eder. **Site Arc testnet'te canlı: https://pikamd.vercel.app** (Vercel, `main`'e her push otomatik yayın). Canlı kütüphanede 4 yönerge var (id 5–8, kullanıcı 2026-10-22'de yayınladı). Canlıda doğrulandı: sayfalar (masaüstü + 390 px, konsol/CSP hatası yok), güvenlik başlıkları, veritabanı (giriş, beğeni, koleksiyon, profil), indexer, MCP (3 araç; `PIKAMD_ALLOWED_HOSTS` ayarlı), cron yetkisiz isteği reddediyor, WalletConnect gerçek eşleşme + SIWE, `/mod` anonim ziyaretçiye 404, bilinmeyen yönerge gerçek 404, kartlarda `reviewed` alanı. Kullanıcının Claude Code'u canlı `/mcp`'ye bağlı (kullanıcı ayarlarında). Ayrıntılar: ARCHITECTURE §5.1 (kontrat), §7.1.1 (yayın), §7.2 (yönerge sayfası), §7.4 (indexer), §7.5 (bağış), §8.0 (MCP anahtarı + koleksiyon), §9.2 (moderasyon, CSP, masaya erişim), §9.3 (giriş + WalletConnect), §9.4 (güvenlik + sır denetimi), §9.5 (Reviewed rozeti), §10.1 (veritabanı), §10.2 (tazelik + akışkanlık); ARC.md §8; DESIGN §2–§3.
 
-**Kullanıcı kararları:** hosting **Vercel** · IPFS **Pinata** · GitHub **nftpoetrist** · lisans **CC BY 4.0** · gizleme = yazar gizler + moderatör kilidi · Supabase iki proje · bağış gerçek (K21) · repo **herkese açık** · **commit'ler yalnızca nftpoetrist** · **push edilen dosyalara başka hesap adı / hesap ya da geçmiş temizliği ayrıntısı yazılmaz** (2026-10-19) · WalletConnect penceresi = Reown'un kendi penceresi (AppKit) · **"Reviewed" rozetini yalnızca kullanıcının yönetim cüzdanı verir/geri alır** (K24, 2026-10-23) · **moderasyon masası yalnızca yönetim adresine görünür ve açılır; adresi yalnızca kullanıcı değiştirir** (2026-10-24, ARCHITECTURE §9.2) · PikaGold yazar gizleyince silinmez, yalnızca moderatör kilidi düşürür (harcanabilir PikaGold'a hazırlık, 2026-10-23).
+**Kullanıcı kararları:** hosting **Vercel** · IPFS **Pinata** · GitHub **nftpoetrist** · lisans **CC BY 4.0** · gizleme = yazar gizler + moderatör kilidi · Supabase iki proje · bağış gerçek (K21) · repo **herkese açık** · **commit'ler yalnızca nftpoetrist** · **push edilen dosyalara başka hesap adı / hesap ya da geçmiş temizliği ayrıntısı yazılmaz** (2026-10-19) · WalletConnect penceresi = Reown'un kendi penceresi (AppKit) · **"Reviewed" rozetini yalnızca kullanıcının yönetim cüzdanı verir/geri alır** (K24, 2026-10-23) · **moderasyon masası yalnızca yönetim adresine görünür ve açılır; adresi yalnızca kullanıcı değiştirir** (2026-10-24, ARCHITECTURE §9.2) · PikaGold yazar gizleyince silinmez, yalnızca moderatör kilidi düşürür (harcanabilir PikaGold'a hazırlık, 2026-10-23). · **maskot tekir kedi** (2026-10-25; pika fareye benziyordu; aynı palet/ölçü/duruş, DESIGN §2) · **rozetteki yazı "VERIFIED"** (2026-10-25; anlamı moderatör onayı, açıklama balonu 0,25 sn'de açılır, ARCHITECTURE K24)
 
 **2026-10-22/24'te yapılanlar (hepsi test edildi, hepsi `main`'de ve GitHub'da):**
 1. **Explore tazeliği + akışkanlık (ARCHITECTURE §10.2):** sayfalar kartlarıyla prerender (anında, dolu kayar), açılınca `useLibrary` → `GET /api/guidelines` (`connection()`, ≤1 sn eski) listeyi sessizce yeniler. Sebep: her Vercel örneğinin kendi belleğindeki `use cache` (`revalidateTag` yalnızca çağıran örneği temizler) + tarayıcının 5 dk'lık router önbelleği. Publish: yayından sonra taslak silinir, sayfadan çıkınca akış sıfırlanır. Cüzdan yeniden bağlanırken bilinen adres kullanılır (`lib/wallet/known.ts`), oturum/koleksiyon/anahtar/profil sorguları localStorage'da saklanır (`lib/query-persist.ts`) → Connect ve cüzdan alanları beklemeden dolu. `/g/[slug]` artık statik (`ensureStatic = "navigation"`, Suspense yok: içerik 12,8 KB'ı aşınca React onu geciktiriyordu; footer kayması 0).
@@ -52,7 +52,7 @@ Yeni oturum buradan devam eder. **Site Arc testnet'te canlı: https://pikamd.ver
 
 **MetaMask "şüpheli site" uyarısı:** MetaMask'ın tarayıcısı (`dapp-scanning.api.cx.metamask.io/v2/scan`) **incelenmemiş `*.vercel.app` / `*.netlify.app` / `*.pages.dev` alt alan adlarını varsayılan olarak BLOCK** ediyor. Kendi alan adlarında sonuç değişken (2026-10-20: `pikamd.xyz` BLOCK'a döndü, `pikamd.com/.org/.io` NONE); alan adı almadan hemen önce aynı servise sor. Kaldırma isteği: https://github.com/MetaMask/eth-phishing-detect/issues/303739. Kendi alan adı (tercihen .com/.org) olası çözüm, garanti değil.
 
-**Git:** `main` = `origin/main` = `c1b03ab`. Yeni iş: `feat/…` dalı → kullanıcı onayıyla `main` + push.
+**Git:** `main` = `origin/main` (2026-10-25: kedi maskotu + VERIFIED rozeti canlıya alındı). Yeni iş: `feat/…` dalı → kullanıcı onayıyla `main` + push.
 
 **Altyapı (hepsi canlı ve doğrulandı):**
 - **`GuidelineRegistry`:** `0x27cf926771B0A311A9574543ea29dc5e3ea59986` (Arc testnet, blok 67092487), admin = moderatör = `0xd76B24F43bCF5C3fFe09906A7414CD4D02EA7cDe` (kullanıcının yönetim cüzdanı, keystore `pikamd-deployer`). Sourcify doğrulandı. Zincirde id 1–3 gizli, id 4 "Test2" (yalnızca geliştirme DB'sinde), id 5–8 canlıda. Web: `lib/chain.ts` → `REGISTRY`, ABI `lib/registry-abi.ts`.
